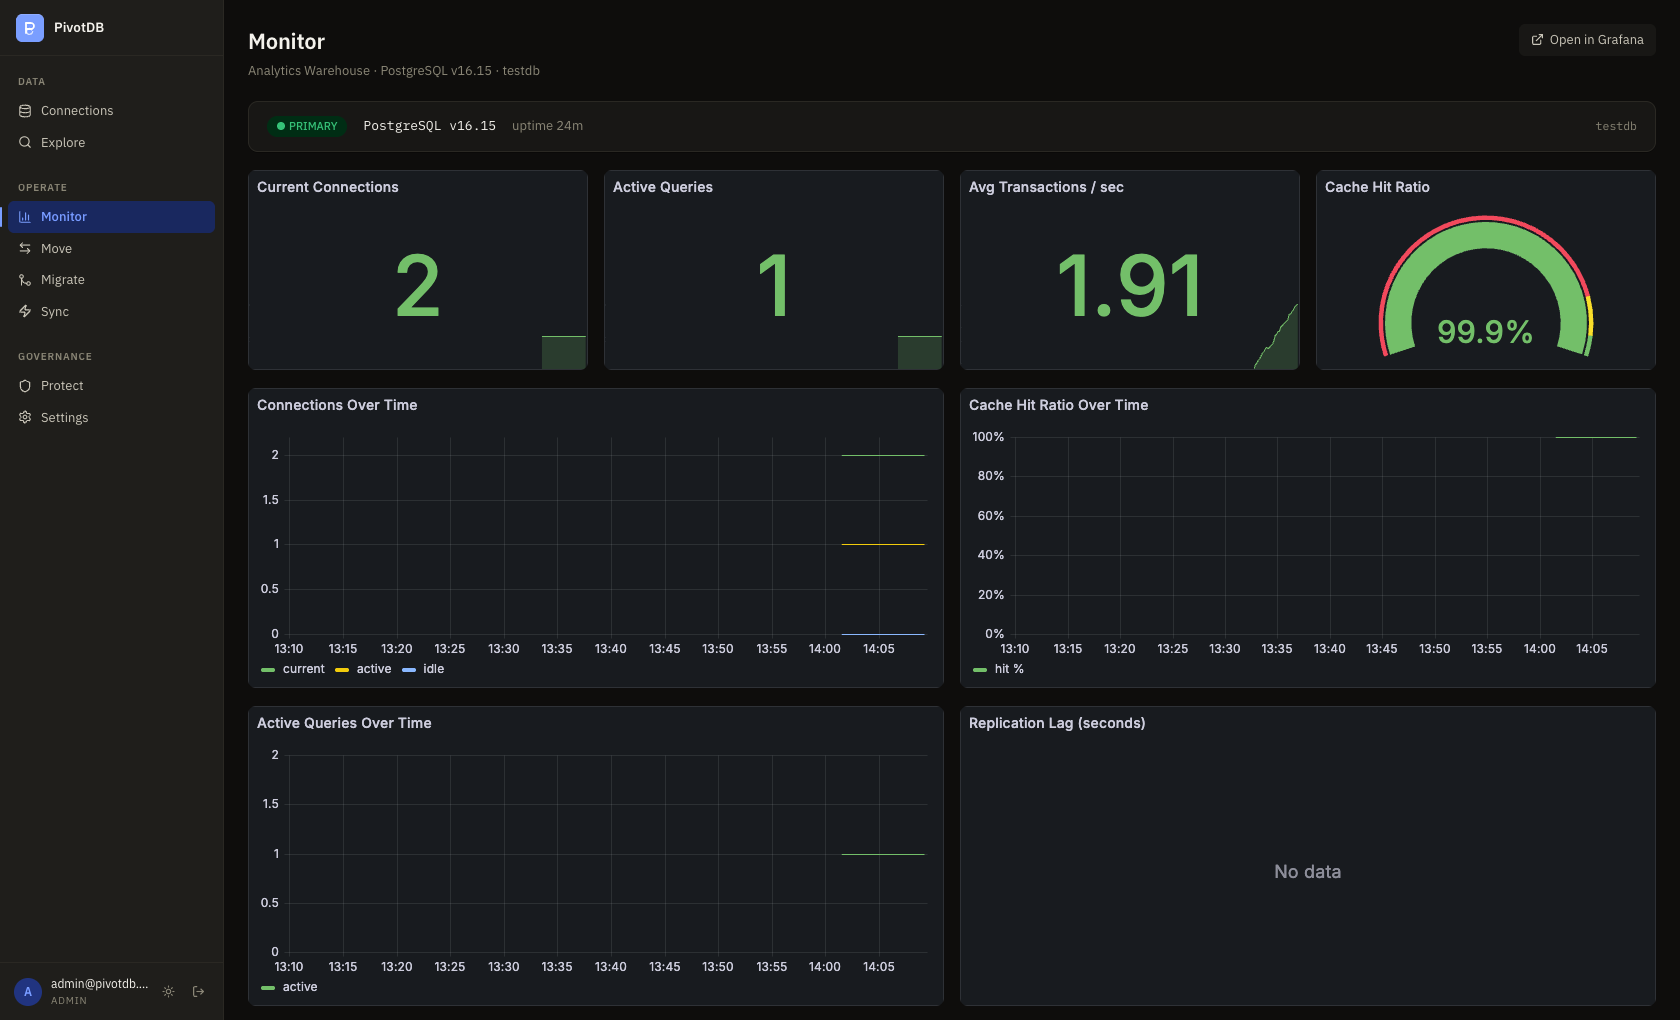
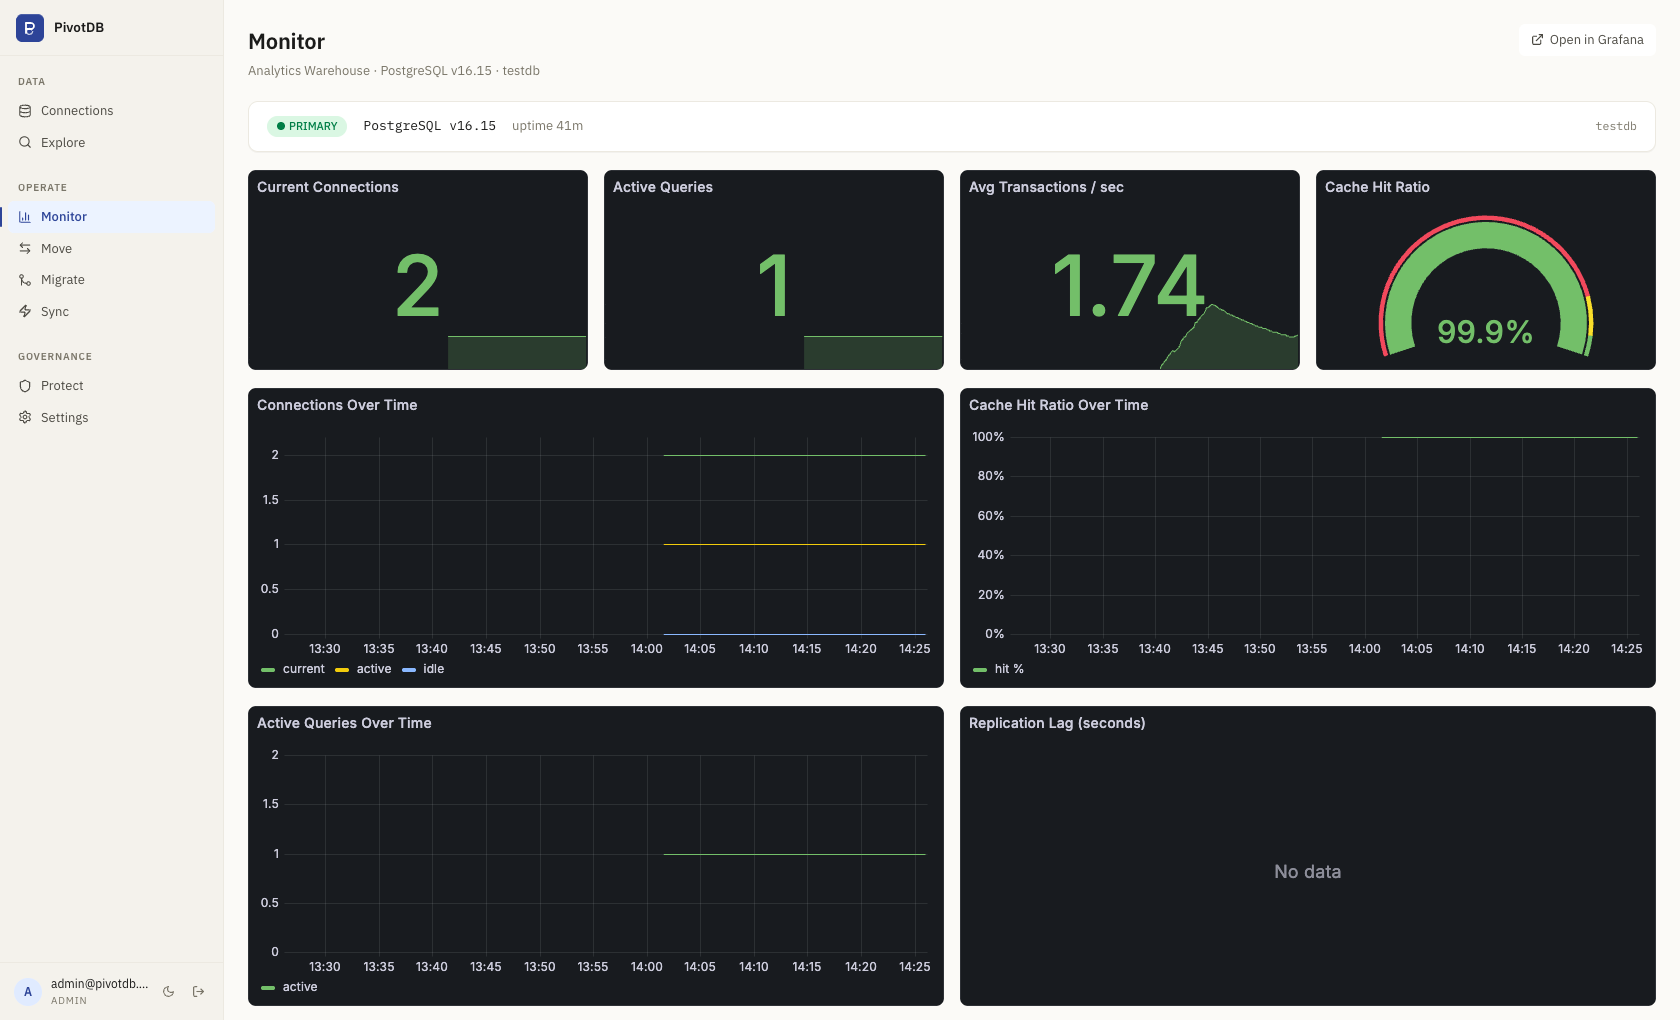
docs: recapture screenshots in light theme
Swaps all twelve README screenshots from dark to light.

The embedded Grafana panels on the two Monitor pages still render dark:
GrafanaPanel hardcodes `theme=dark` in the iframe URL rather than
following the app's light/dark setting. Captured as-is and called out in
the caption instead of papering over it.

diff --git a/README.md b/README.md
@@ -32,7 +32,7 @@ One explorer shell, two engines. Tabs for Documents / Schema / Aggregate, a filt
 
 ![Explore — MongoDB](docs/screenshots/explore-mongo.png)
 
-Browsing `testdb.orders` — 1,000 documents, with collection stats (418 KB, 428 B average document) and the three index definitions in the right rail.
+Browsing `testdb.orders` — 1,000 documents, with collection stats and the three index definitions listed in the right rail.
 
 ![Explore — PostgreSQL](docs/screenshots/explore-sql.png)
 
@@ -58,7 +58,9 @@ A live Postgres → Postgres sync in the `tailing` phase, reading WAL through a 
 
 ![Monitor — MongoDB](docs/screenshots/monitor-mongo.png)
 
-Engine-aware Grafana panels embedded per connection, backed by Prometheus scraping `/metrics` every 15s. Ops/sec is derived by differencing cumulative `opcounters` between scrapes. *(Replication Lag reads "No data" because this fixture is a standalone `mongod` with no replica set.)*
+Engine-aware Grafana panels embedded per connection, backed by Prometheus scraping `/metrics` every 15s. Ops/sec is derived by differencing cumulative `opcounters` between scrapes.
+
+*Two things to note: the embedded panels always render in Grafana's dark theme — the iframe URL pins `theme=dark`, so they don't follow the app's light/dark setting. And Replication Lag reads "No data" because this fixture is a standalone `mongod` with no replica set.*
 
 ![Monitor — PostgreSQL](docs/screenshots/monitor-sql.png)
 
